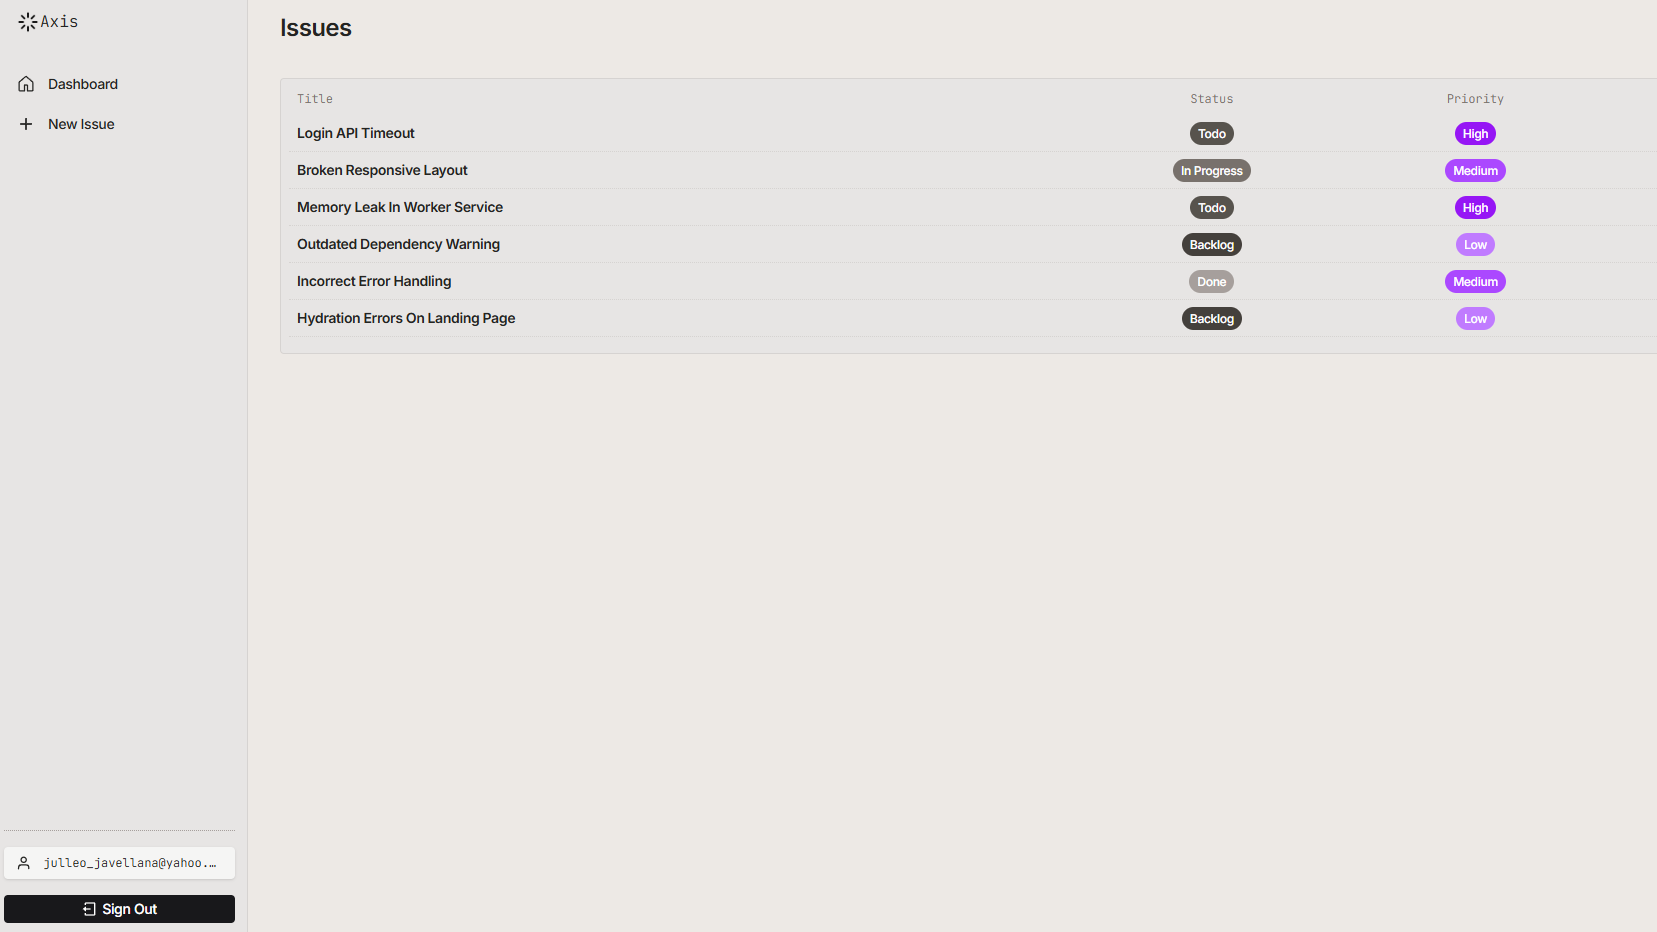
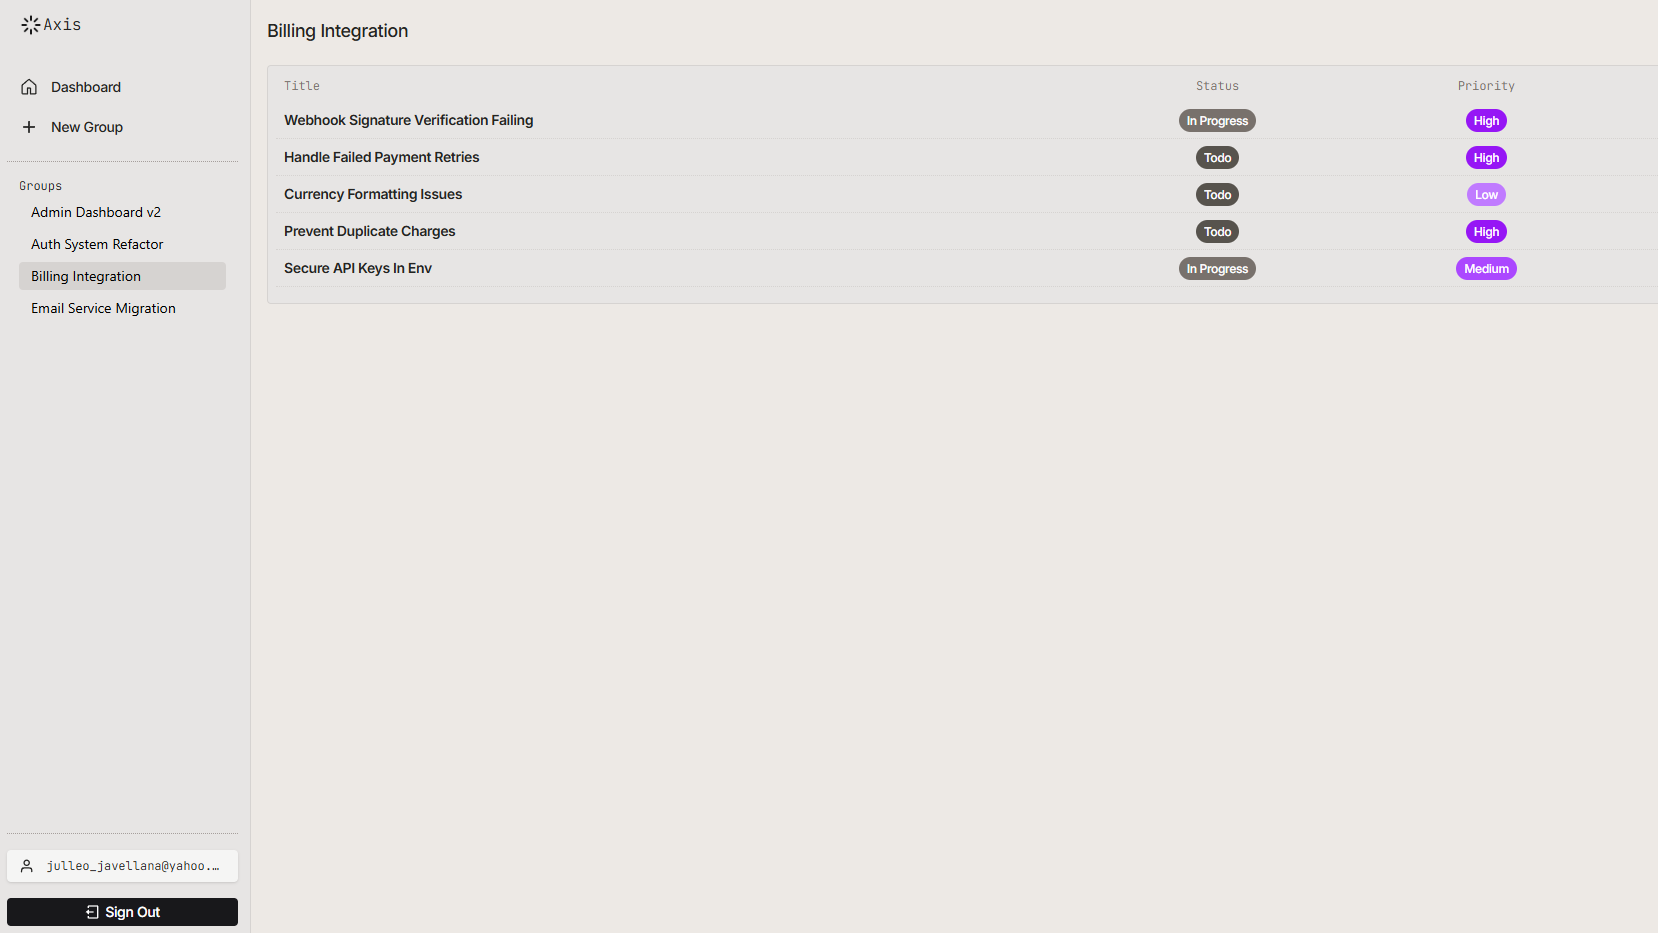
chore: update project data

diff --git a/lib/data/index.tsx b/lib/data/index.tsx
@@ -166,7 +166,7 @@ export const projectData: Project[] = [
     {
         id: 2,
         title: 'Axis',
-        description: 'A project management tool with issue tracking and task management, along with status, priority, and deadline tracking.',
+        description: 'A project management tool with issue tracking and task management, issue grouping, along with status, priority, and deadline tracking.',
         images: [axis0, axis1, axis2, axis3, axis4],
         role: 'Full Stack',
         liveLink: 'https://axis-amber.vercel.app/',
